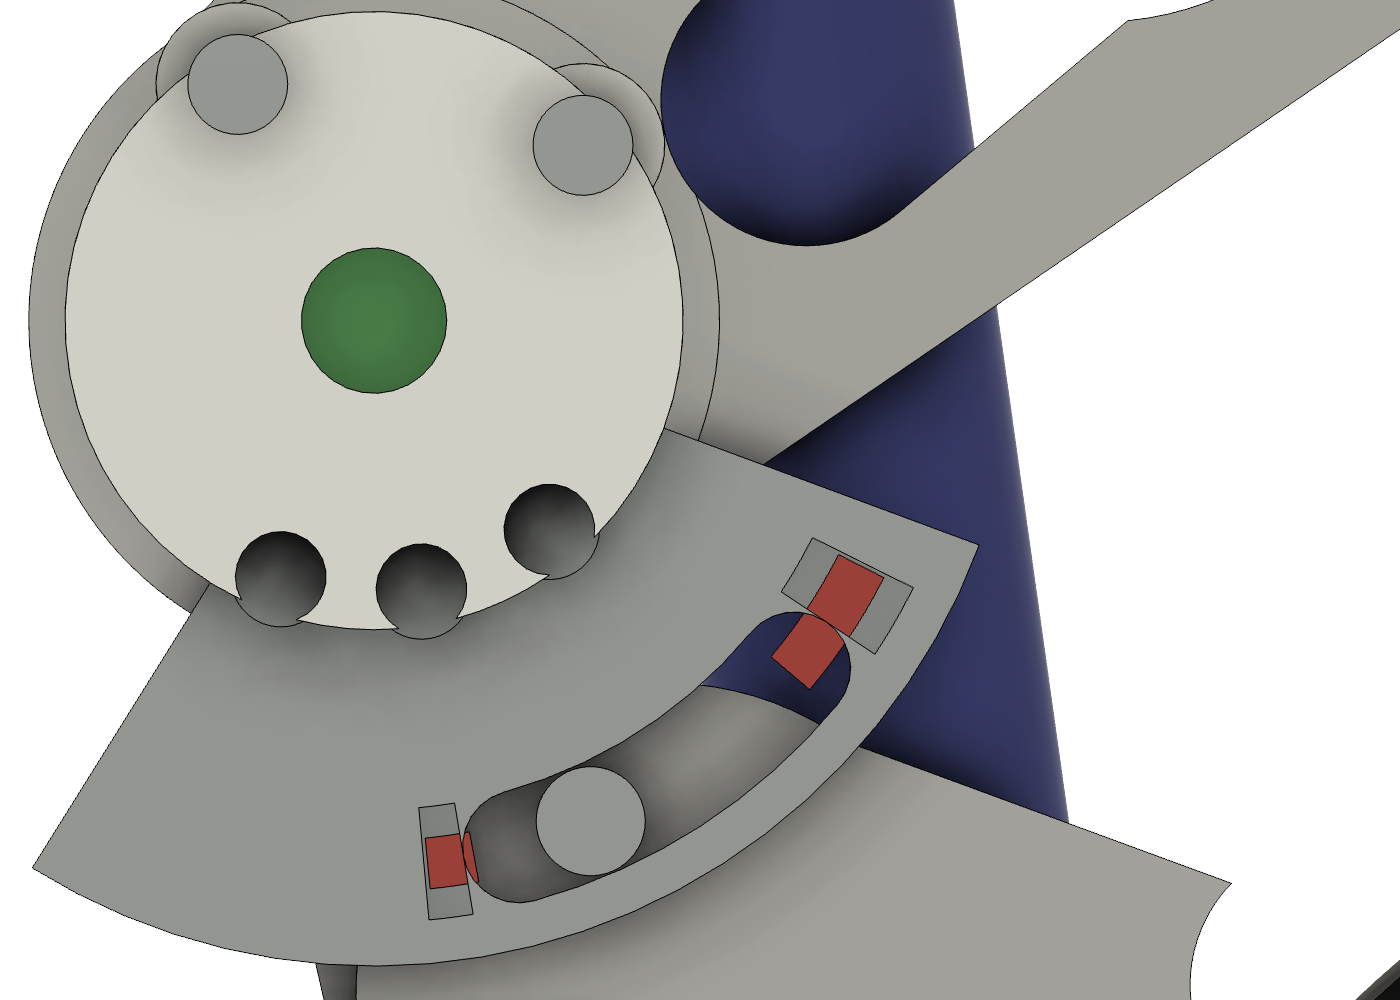
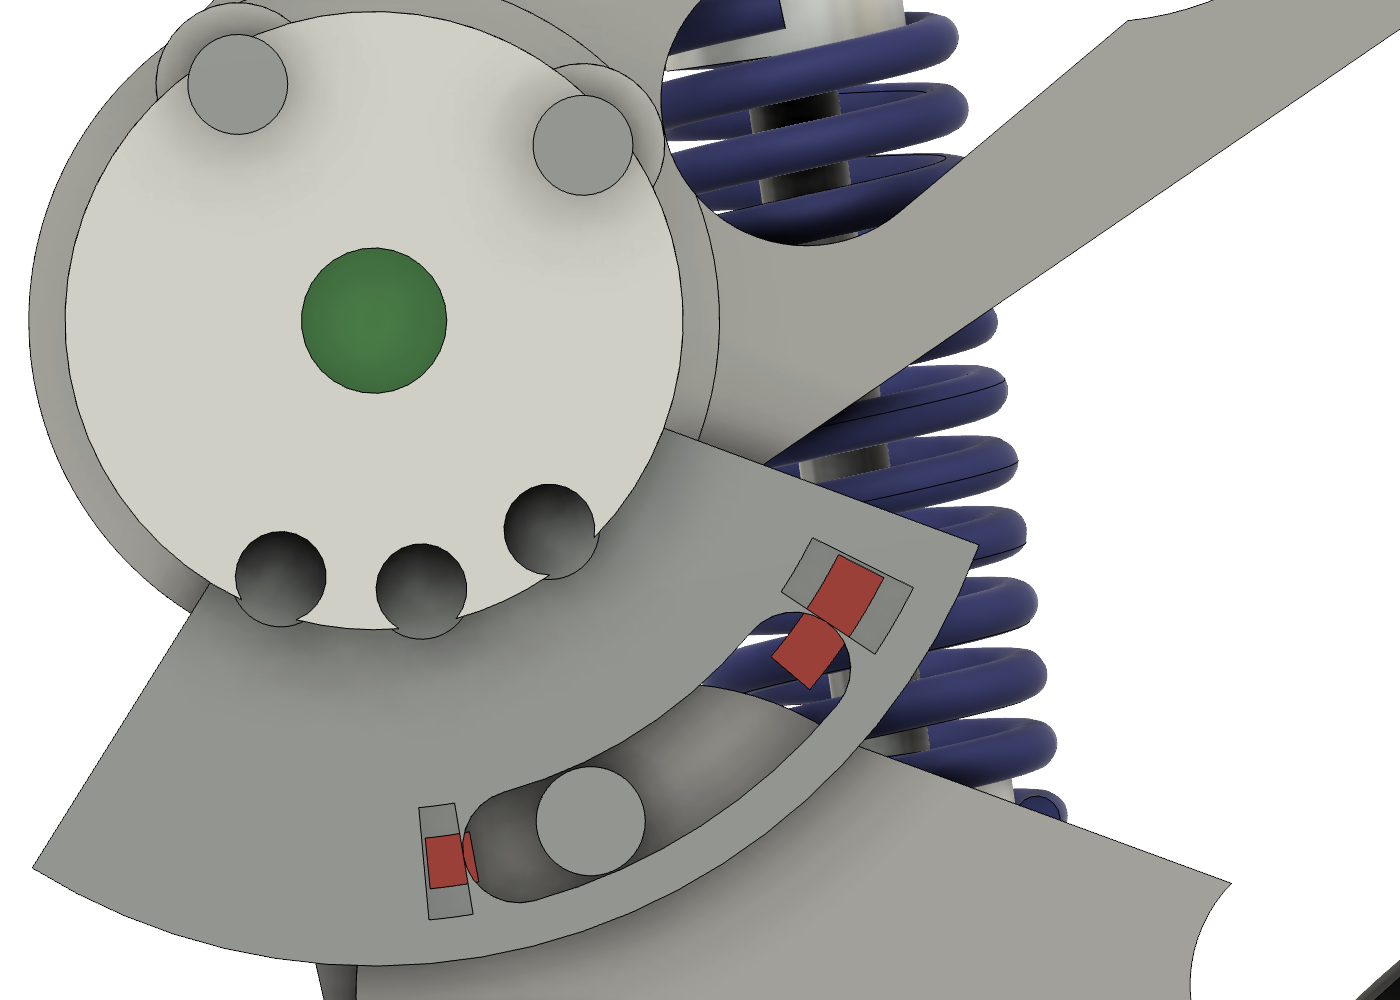
Model knee spring as a helical CAD body

diff --git a/web/index.html b/web/index.html
@@ -218,9 +218,8 @@ const about = (a,ox,oz) =>
   trans(ox,0,oz).multiply(rotY(a)).multiply(trans(-ox,0,-oz));
 
 /* ------------------------------------------------------- the spring, drawn
-   The Fusion model carries the spring as its outer envelope (documented in
-   the design record).  Here it is drawn as the real specified coil so the
-   compression is actually visible: O19 OD, 2.6 wire, 11.8 total coils.     */
+   Fusion and this viewer both show the specified helical representation so
+   compression is visible: O19 OD, 2.6 wire, 11.8 total coils.              */
 const springMat = new THREE.MeshStandardMaterial(
   {color:0x9fb6cc, roughness:0.28, metalness:0.92});
 const springNode = {L:new THREE.Object3D(), R:new THREE.Object3D()};

diff --git a/web/src/viewer.html b/web/src/viewer.html
@@ -218,9 +218,8 @@ const about = (a,ox,oz) =>
   trans(ox,0,oz).multiply(rotY(a)).multiply(trans(-ox,0,-oz));
 
 /* ------------------------------------------------------- the spring, drawn
-   The Fusion model carries the spring as its outer envelope (documented in
-   the design record).  Here it is drawn as the real specified coil so the
-   compression is actually visible: O19 OD, 2.6 wire, 11.8 total coils.     */
+   Fusion and this viewer both show the specified helical representation so
+   compression is visible: O19 OD, 2.6 wire, 11.8 total coils.              */
 const springMat = new THREE.MeshStandardMaterial(
   {color:0x9fb6cc, roughness:0.28, metalness:0.92});
 const springNode = {L:new THREE.Object3D(), R:new THREE.Object3D()};

diff --git a/beni_lib.py b/beni_lib.py
@@ -208,6 +208,8 @@ SPRING_OD = 19.0
 SPRING_WIRE = 2.6
 SPRING_FREE = 55.0
 SPRING_RATE = 10.45
+SPRING_ACTIVE_COILS = 9.8
+SPRING_TOTAL_COILS = 11.8
 
 
 # ------------------------------------------------------------------- helpers
@@ -946,11 +948,10 @@ def sweep_check(poses=None, verbose=True):
 #  downstream (balance controller, URDF, sim) could be built at all.
 #
 #  Each entry is either a density in g/cm3, or an exact target mass in grams
-#  for bodies that are ENVELOPES rather than true solids.  The envelopes are
-#  the honest reason the old hand roll-up was 48 g out: the spring is modelled
-#  as its full O19 outer cylinder, which at steel density weighs 51 g against
-#  a real 25.3 g spring.  Giving the envelope an effective density makes the
-#  assembly mass correct without pretending to model a swept helix.
+#  for bought assemblies and presentation solids whose simplified geometry
+#  does not reproduce the supplied mass exactly.  The knee spring is now a
+#  swept O2.6 helical wire body; its density is still derived so the model
+#  keeps the specified 25.3 g through every regenerated pose.
 # =========================================================================
 MATERIAL_SPEC = {
     # class   library material         density   target mass (g)  note
@@ -961,8 +962,8 @@ MATERIAL_SPEC = {
     'ALU':    ('Aluminum',            2.81,  None, '7075-T6'),
     'STEEL':  ('Steel',               7.85,  None, 'steel'),
     'PCB':    ('ABS Plastic',         1.90,  None, 'FR4 assembly'),
-    # envelopes / assemblies -- mass is specified, density is derived
-    'SPRING': ('Steel',               None,  25.3, 'spring, modelled as its O19 envelope'),
+    # presentation solids / assemblies -- mass is specified, density is derived
+    'SPRING': ('Steel',               None,  25.3, 'helical spring wire, mass calibrated'),
     'BATT':   ('ABS Plastic',         None, 250.0, '4S 2200 mAh pack'),
     'ELEC':   ('ABS Plastic',         None, 120.0, 'compute + IMU + PDB + wiring'),
 }
@@ -1038,6 +1039,34 @@ def _set_density(mat, g_per_cm3):
         return False
 
 
+def _mass_material_for_body(cls, material_part, body, target_g):
+    """Assign a per-part material recalibrated to an exact target mass.
+
+    The two knee springs need distinct materials because a posed left spring
+    and nominal right spring have different swept-helix volumes.  Recalibrate
+    on every rebuild rather than reusing the density from the previous pose.
+    """
+    key = 'PART_%s' % material_part
+    mat = _MAT_CACHE.get(key)
+    if mat is None:
+        base = _local_material(cls)
+        if base is None:
+            return None
+        des = design()
+        want = 'BENI_' + material_part
+        for k in range(des.materials.count):
+            if des.materials.item(k).name == want:
+                mat = des.materials.item(k)
+                break
+        if mat is None:
+            mat = des.materials.addByCopy(base, want)
+        _MAT_CACHE[key] = mat
+    if body.volume > 1e-9:
+        _set_density(mat, target_g / body.volume)
+    body.material = mat
+    return mat
+
+
 def apply_materials(verbose=False):
     """Give every body a physical material with the right density.
 
@@ -1066,26 +1095,13 @@ def apply_materials(verbose=False):
             vol_cm3 = b.volume
             target = MASS_OVERRIDE_G.get(part, cls_mass)
             if target is not None and vol_cm3 > 1e-9:
-                # this body needs its own density, so give it its own material
-                key = 'PART_%s' % part
-                if key in _MAT_CACHE:
-                    mat = _MAT_CACHE[key]
-                else:
-                    base = _local_material(cls)
-                    if base is None:
-                        skipped.append(part)
-                        continue
-                    des = design()
-                    mat = None
-                    for k in range(des.materials.count):
-                        if des.materials.item(k).name == 'BENI_' + part:
-                            mat = des.materials.item(k)
-                            break
-                    if mat is None:
-                        mat = des.materials.addByCopy(base, 'BENI_' + part)
-                    _set_density(mat, target / vol_cm3)
-                    _MAT_CACHE[key] = mat
-                b.material = mat
+                material_part = part
+                if part == 'Knee_Spring_L' and '(Mirror)' in raw:
+                    material_part += '_Mirror'
+                mat = _mass_material_for_body(cls, material_part, b, target)
+                if mat is None:
+                    skipped.append(part)
+                    continue
             else:
                 mat = _local_material(cls)
                 if mat is None:
@@ -2231,55 +2247,64 @@ def cart_dir(phi):
 
 
 def _spring_body(name, phi, y_mid):
-    """Build one spring envelope, revolved about the cartridge axis at y_mid."""
+    """Build one variable-length helical spring about the cartridge axis."""
     drop_comp(name)
     o = new_comp(name)
     c = o.component
     d, L = cart_dir(phi)
     s0, s1 = CART_DEAD_U, L - (CART_DEAD - CART_DEAD_U)
-    sk = sk_on_y(c, y_mid)
-    ax = sk.sketchCurves.sketchLines.addByTwoPoints(
-        sxz(UX - 25 * d[0], UZ - 25 * d[1]),
-        sxz(UX + (L + 25) * d[0], UZ + (L + 25) * d[1]))
-    ax.isConstruction = True
+    spring_len = s1 - s0
+    r_mean = (SPRING_OD - SPRING_WIRE) / 2.0
     p = (-d[1], d[0])
-    ri, ro = (SPRING_OD - 2 * SPRING_WIRE) / 2.0, SPRING_OD / 2.0
 
-    def SP(s, rr):
-        return (UX + s * d[0] + rr * p[0], UZ + s * d[1] + rr * p[1])
-    pts = [SP(s0, ri), SP(s1, ri), SP(s1, ro), SP(s0, ro)]
-    ln = sk.sketchCurves.sketchLines
-    for i in range(4):
-        ln.addByTwoPoints(sxz(*pts[i]), sxz(*pts[(i + 1) % 4]))
-    revolve(c, biggest_profile(sk), ax, 360.0, 'new').bodies.item(0).name = name
-    b = c.bRepBodies.item(0)
+    # The centreline stays half a wire diameter inside both spring-seat planes,
+    # so the swept wire occupies exactly `spring_len` axially.  Its radial
+    # extent is exactly O19.  The 11.8-turn representation matches the BOM and
+    # the browser viewer; coil-bind acceptance remains the supplier solid-height
+    # check, not a claim based on spline end geometry.
+    sk = c.sketches.add(c.xYConstructionPlane)
+    sk.name = name + '_Centerline'
+    sk.isComputeDeferred = True
+    fit = adsk.core.ObjectCollection.create()
+    steps = int(math.ceil(SPRING_TOTAL_COILS * 16.0))
+    axial_span = spring_len - SPRING_WIRE
+    for i in range(steps + 1):
+        f = i / float(steps)
+        ang = 2.0 * math.pi * SPRING_TOTAL_COILS * f
+        s = s0 + SPRING_WIRE / 2.0 + axial_span * f
+        radial_y = r_mean * math.cos(ang)
+        radial_p = r_mean * math.sin(ang)
+        fit.add(p3(UX + s * d[0] + radial_p * p[0],
+                   y_mid + radial_y,
+                   UZ + s * d[1] + radial_p * p[1]))
+    spline = sk.sketchCurves.sketchFittedSplines.add(fit)
+    sk.isComputeDeferred = False
+    # Path.create needs an assembly-context proxy for a curve owned by this
+    # nested component; the native spline raises InternalValidationError.
+    spline_proxy = spline.createForAssemblyContext(o)
+    path = adsk.fusion.Path.create(
+        spline_proxy, adsk.fusion.ChainedCurveOptions.noChainedCurves)
+    pipes = c.features.pipeFeatures
+    ipt = pipes.createInput(path, adsk.fusion.FeatureOperations.NewBodyFeatureOperation)
+    ipt.creationOccurrence = o
+    ipt.sectionType = adsk.fusion.PipeSectionTypes.CircularPipeSectionType
+    ipt.sectionSize = adsk.core.ValueInput.createByReal(cm(SPRING_WIRE))
+    feature = pipes.add(ipt)
+    feature.name = name + '_HelicalWire'
+    b = feature.bodies.item(0)
+    b.name = name
+    sk.isLightBulbOn = False
     a = appearance('SPRING')
     if a:
         b.appearance = a
-    # Re-apply the physical material.  A freshly built body defaults to steel,
-    # which for this ENVELOPE means 51 g instead of the real 25.3 g spring --
-    # so skipping this silently adds 26 g per leg to the mass properties.
-    try:
-        mat = None
-        des = design()
-        for k in range(des.materials.count):
-            if des.materials.item(k).name == 'BENI_Knee_Spring_L':
-                mat = des.materials.item(k)
-                break
-        if mat is None:
-            base = _local_material('SPRING')
-            if base is not None:
-                mat = des.materials.addByCopy(base, 'BENI_Knee_Spring_L')
-                _set_density(mat, MASS_OVERRIDE_G['Knee_Spring_L'] / b.volume)
-        if mat is not None:
-            b.material = mat
-    except Exception:
-        pass
+    material_part = name.replace('(Mirror)', '_Mirror')
+    _mass_material_for_body(
+        'SPRING', material_part, b, MASS_OVERRIDE_G['Knee_Spring_L'])
     return o
 
 
 def rebuild_spring(phi, phi_mirror=0.0):
-    """Rebuild BOTH spring envelopes.
+    """Rebuild BOTH helical spring bodies.
 
     Both, not one.  This function is called by set_pose(), so if it only built
     the left spring then merely *posing* the model deleted the right leg's

diff --git a/rig_lib.py b/rig_lib.py
@@ -896,6 +896,8 @@ def rig_set_pose(theta, phi):
     beni_lib.capture_nominal()
     saved = xf_capture()
     beni_lib._spring_body('Knee_Spring_L', phi, beni_lib.LEG_Y_MID)
+    beni_lib.design().computeAll()
+    adsk.doEvents()
     xf_restore(saved)
     replace_cart_stops()            # deterministic, idempotent, phi-independent
     snap = beni_lib.nominal_snapshot()
@@ -1957,6 +1959,12 @@ def guarded(fn, *a, **kw):
     """Run anything structural inside the capture / restore / assert cycle."""
     saved = xf_capture()
     out = fn(*a, **kw)
+    # Pipe/sweep creation can queue one more parametric recompute after the
+    # builder returns.  Flush it before restoring transform2; otherwise that
+    # delayed recompute can erase a successful restore and drop the cartridge
+    # stop parts back at identity before placed_assert() runs.
+    beni_lib.design().computeAll()
+    adsk.doEvents()
     moved = xf_restore(saved)
     if moved:
         print('   guard fired: rewrote %d of %d transforms  %s'

diff --git a/PROJECT_STATUS.md b/PROJECT_STATUS.md
@@ -24,7 +24,7 @@ commands. For the public project overview and active print download, see
 | **Single-leg test rig, Mode A** | **This is the active build.** `RIG_Stand` and the rear-face `RIG_Cable_Anchor_ModeA` are modelled, checked and saved in Fusion. `rig_lib.checks_44()` passes all seven Mode A checks after the anchor addition. |
 | Electronics | Designed on paper (`electronics/`). Nothing wired. Mode A cuts Wave 0 to **~$25** plus a bench PSU. |
 | Firmware | Stage 0 bench scaffold implemented and compile-verified for Teensy 4.1 in [`firmware/teensy_stage0/`](firmware/teensy_stage0/). It has no actuator command path; hardware gates remain unrun. |
-| Physical hardware | **Both actuators and the 6800-2RS bearings are in hand.** Photo evidence: [`evidence/actuators/2026-08-20_received/`](evidence/actuators/2026-08-20_received/). The ABS actuator-interface results are: GIM6010 housing PASS, original GIM6010 output Ø4.05 bore clearance FAIL followed by Ø4.15 ABS PASS, GIM4305 housing PASS with the real M2.5 screws, and GIM4305 output PASS. The two GIM4305 coupons are opposite-face, one-at-a-time gauges and intentionally do not nest. The actual Ø4.15 ABS shoulder hub PASSes all three pins and all six M3 output positions. The corrected shoulder-plate-first assembly sequence is **physically verified**. Use M3 × 8 housing screws; ×10 bottoms before clamping. The original Ø19.00 bearing coupon is a physical FAIL; the owner's Ø19.10 ladder bore is an **ABS PASS** with firm thumb pressure, square seating, no rock and tool-free removal. Proximal print 1 exposed the unequal-circle tangent error and print 2 proved the corrected on-edge policy still wrong: support removal broke an internal Ø17 bearing-retention lip and the horizontal Ø19.10 seat was not round enough for the bearing. The redesigned arm-B face now shares the existing Y = 90.3 bearing-boss plane, providing a 4213.248 mm² face-flat datum without changing the 31.6 mm knee envelope. Fusion and Bambu verify the new bed-ready STL with both bearing axes along +Z and no supports on the channel, seats or lips; the new physical print remains pending. No loaded leg or wiring has been assembled yet. |
+| Physical hardware | **Both actuators and the 6800-2RS bearings are in hand.** Photo evidence: [`evidence/actuators/2026-08-20_received/`](evidence/actuators/2026-08-20_received/). The owner reports that an AliExpress spring arrived at **150 mm free length** on 2026-09-01. That is not the Ø19 × 2.6 × **55 mm free** knee spring specified in the BOM and RFQ; do not install or trim it into the cartridge. Its OD, wire diameter, coil count, material and rate remain unverified. The ABS actuator-interface results are: GIM6010 housing PASS, original GIM6010 output Ø4.05 bore clearance FAIL followed by Ø4.15 ABS PASS, GIM4305 housing PASS with the real M2.5 screws, and GIM4305 output PASS. The two GIM4305 coupons are opposite-face, one-at-a-time gauges and intentionally do not nest. The actual Ø4.15 ABS shoulder hub PASSes all three pins and all six M3 output positions. The corrected shoulder-plate-first assembly sequence is **physically verified**. Use M3 × 8 housing screws; ×10 bottoms before clamping. The original Ø19.00 bearing coupon is a physical FAIL; the owner's Ø19.10 ladder bore is an **ABS PASS** with firm thumb pressure, square seating, no rock and tool-free removal. Proximal print 1 exposed the unequal-circle tangent error and print 2 proved the corrected on-edge policy still wrong: support removal broke an internal Ø17 bearing-retention lip and the horizontal Ø19.10 seat was not round enough for the bearing. The redesigned arm-B face now shares the existing Y = 90.3 bearing-boss plane, providing a 4213.248 mm² face-flat datum without changing the 31.6 mm knee envelope. Fusion and Bambu verify the new bed-ready STL with both bearing axes along +Z and no supports on the channel, seats or lips; the new physical print remains pending. No loaded leg or wiring has been assembled yet. |
 
 The revised first article is saved in Fusion `Beni_Prototype1_TestGauges` and
 the scripted body is verified transiently in the Mode A rig. The already-modified
@@ -183,6 +183,7 @@ python3 -c "import rig_calc; rig_calc.mode_a_stand()"
 | **B1** | Wheel-driver max bus voltage unconfirmed. Run the rig at 20 V. |
 | Clock spring | Highest-risk mechanical item. **Gets no validation in the rig build** — deleted for it. Moves to the two-leg build still unproven. |
 | Drop behaviour | **Now in the same category as the clock spring.** Mode A runs no drops, so the 45 mm passive limit, the φ_peak curve and `A_MAX` all move to the two-leg build unmeasured. Deliberate, and recorded in rig design record §11. |
+| Main knee spring | **Received part is nonconforming by free length:** owner-reported 150 mm versus the specified 55 mm. The cartridge is 52.13 mm long at −8°, 48.87 mm at nominal and 35.57 mm at the +27° stop. Continue the exact spring RFQ; do not redesign the frozen knee around this part without first measuring its complete specification and demonstrating a kinematic/load failure. |
 | Brake chopper | Deferred with Mode B, and **still uncomputed** (~21.5 V on / ~20.8 V off). ⚠ Until it is built, nothing may backdrive a motor. |
 | Creep | Printed joints relax silently. Re-torque after the first hour, then periodically. Inspect the printed hub's dowel holes after every drop session. |
 | Stand hold-down | **New in Mode A.** 11.00 N·m of shoulder yaw needs 11.2 kg at a 100 mm base half-width, 5.6 kg at 200 mm, 3.7 kg at 300 mm. The modelled stand is **574.2 g**, so it **must be clamped to the bench, not weighted.** Four clamp landings and 4 × M6 bench-bolt holes are in the CAD; the unloaded bench pull-test has no CAD equivalent and is still owed. |

diff --git a/beni_prototype1_design_record.md b/beni_prototype1_design_record.md
@@ -199,9 +199,11 @@ to occupy |y| ≤ 47 without ever fouling the leg sweep.
    inside the spring channel *and* inside the distal link's knee web. Load at
    the inserts is shear (≈ 5 MPa on the insert/plastic interface at the 16 N·m
    impact case), not pull-out.
-6. **The spring is modelled as its outer envelope** (Ø19 OD / Ø13.8 ID) rather
-   than a swept helix. The envelope is the correct representation for clearance
-   work; the full wire spec is in the BOM.
+6. **The spring is modelled as a swept Ø2.6 helical wire body** with the specified
+   Ø19 OD and 11.8 total-coil representation. It rebuilds to the cartridge length
+   at every knee pose. The earlier annular outer-envelope model established the
+   conservative 0.50 mm channel clearance; coil-bind acceptance still comes from
+   the specified solid height and the supplier/press check, not spline end detail.
 7. **The guide rod guides the spring only for φ ≳ +13°.** The stroke (16.6 mm)
    exceeds the axial room available between the lower eye's rod bore and its
    pivot pin, so the rod withdraws at high extension. This is acceptable: at
@@ -531,7 +533,7 @@ import beni_lib; from beni_lib import *
 set_pose(theta_deg, phi_deg)      # e.g. set_pose(0.0, 25.0)
 ```
 
-`set_pose()` rebuilds the spring envelope for the knee angle, then poses the
+`set_pose()` rebuilds the helical spring body for the knee angle, then poses the
 whole leg from a cached nominal state. It is the same function used for every
 sweep in §10.
 
@@ -600,11 +602,11 @@ could be built from it.
 | Ixz about CoM | +0.002759 kg·m² |
 | Inverted-pendulum time constant √(L/g) | 0.103 s |
 
-Four bodies are **envelopes rather than solids** and carry a derived density so
-the assembly mass is right without pretending to model detail that is not there:
-the spring (its full Ø19 outer cylinder, made to weigh the real 25.3 g rather
-than 51 g), the harness spiral at 7 g, and the battery and electronics blocks at
-250 g and 120 g. They are listed in `beni_lib.MASS_OVERRIDE_G`.
+The helical spring and three simplified bought-assembly/presentation bodies carry
+a derived density so the assembly mass remains exact: the spring at 25.3 g, the
+harness spiral at 7 g, and the battery and electronics blocks at 250 g and 120 g.
+They are listed in `beni_lib.MASS_OVERRIDE_G`; left and right spring materials are
+recalibrated independently when their posed lengths differ.
 
 **CoM Y = −0.00 mm is now a standing symmetry check.** Any part missing from one
 leg shows up in it immediately — it is how the missing right-hand spring

diff --git a/beni_prototype1_bom_and_assembly.md b/beni_prototype1_bom_and_assembly.md
@@ -202,13 +202,10 @@ the full-hardware figure is ≈3295 g. Both actuator masses are still estimates
 and must be confirmed by weighing the delivered units — a 10 % error on the
 shoulder pair alone is 100 g, which is half the margin.
 
-Two envelope parts carry a derived density so the assembly mass is right without
-pretending to model detail that isn't there: `Knee_Spring_L` is the spring's full
-Ø19 outer cylinder given an effective density that makes it weigh the real
-25.3 g (at steel density it read 51 g), and `Shoulder_Cable_Spiral_L` is the
-harness envelope at 7 g. `Battery_4S2200` and `Chassis_Electronics` are mass
-placeholders at 250 g and 120 g. All of them are listed in
-`beni_lib.MASS_OVERRIDE_G`.
+The swept-helical `Knee_Spring_L` body carries a derived density that preserves
+the specified 25.3 g through regenerated poses. `Shoulder_Cable_Spiral_L` is a
+7 g harness envelope; `Battery_4S2200` and `Chassis_Electronics` are mass
+placeholders at 250 g and 120 g. All are listed in `beni_lib.MASS_OVERRIDE_G`.
 
 ### Mass properties
 

diff --git a/README.md b/README.md
@@ -26,6 +26,11 @@ The CAD gallery is exported from the live Fusion model with
 [`readme_images_fusion.py`](readme_images_fusion.py) and should be refreshed with
 model changes.
 
+The passive-knee detail includes the live `Knee_Spring_L` helical body: Ø19 OD,
+Ø2.6 wire and an 11.8-total-coil representation rebuilt to the current cartridge
+length. The ordered part requirement remains 55 mm free length; CAD coil-bind
+acceptance is governed by the specified 30.68 mm solid height and physical test.
+
 ---
 
 <!-- PRINT_QUEUE_START -->
